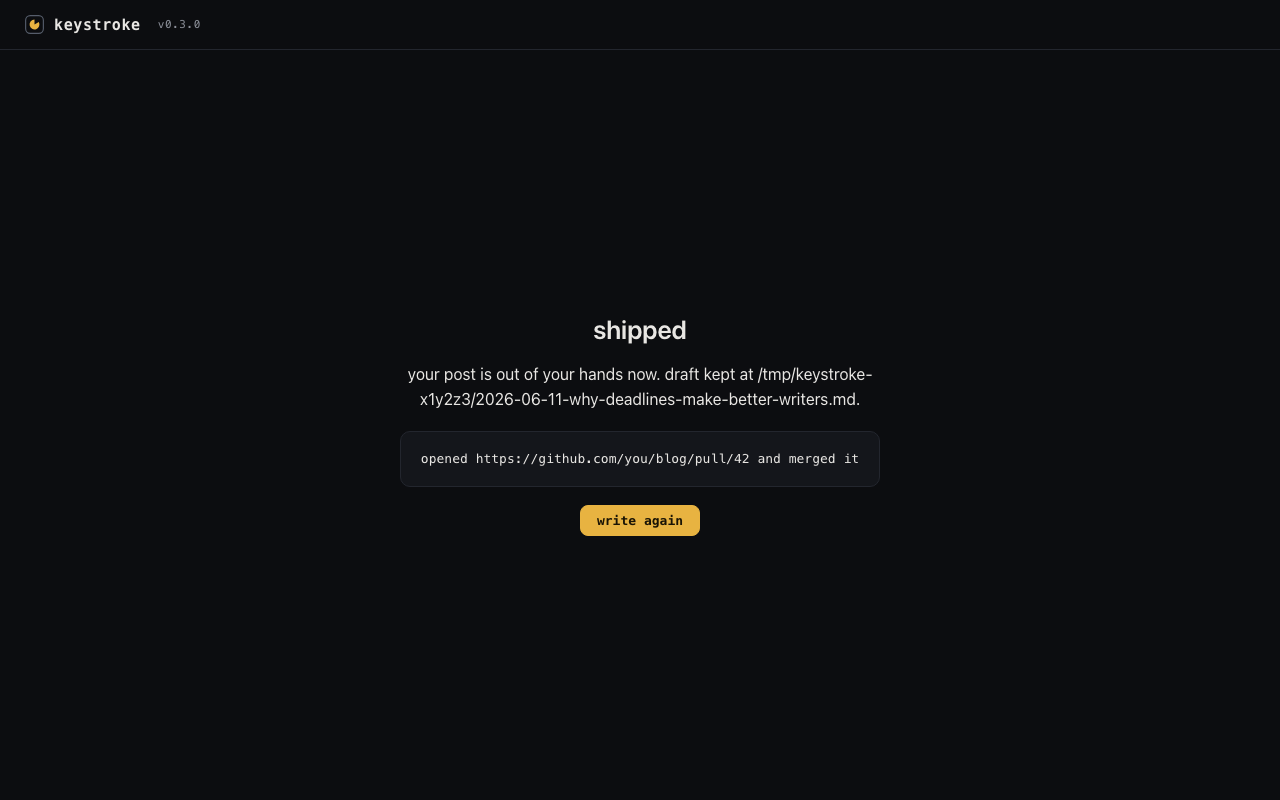
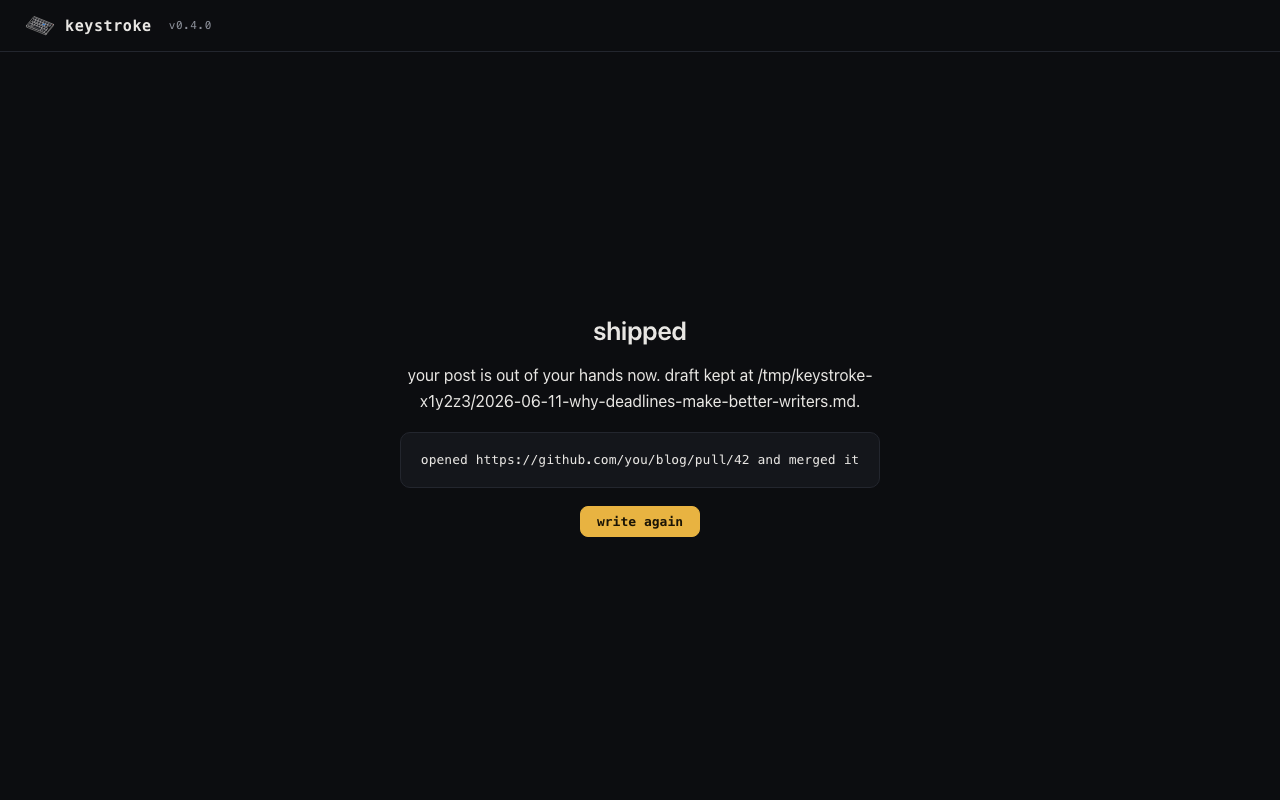
trim readme to examples section with three screens

diff --git a/README.md b/README.md
@@ -1,4 +1,4 @@
-<img src="public/logo.svg" width="56" alt="keystroke logo" />
+<img src="public/favicon.svg" width="72" alt="keystroke logo" />
 
 # keystroke
 
@@ -17,25 +17,11 @@ extensions, no drafts rotting in a folder. the deadline is the editor.
 the hook is required. keystroke will not let you write without one, because a
 post with nowhere to go is just a draft.
 
-## screens
-
-the gate. no hook, no words:
-
-![setup screen](docs/screenshots/setup.png)
-
-pick your deadline:
-
-![duration select](docs/screenshots/select.png)
-
-write. the clock is always in view:
+## examples
 
 ![editor](docs/screenshots/write.png)
 
-optional side-by-side markdown preview:
-
 ![split preview](docs/screenshots/preview.png)
-
-at zero (or on ship now), the hook runs and you see what it did:
 
 ![shipped](docs/screenshots/done.png)
 